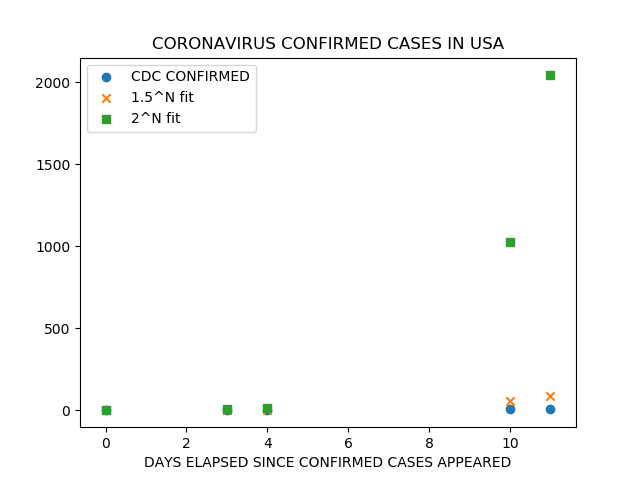
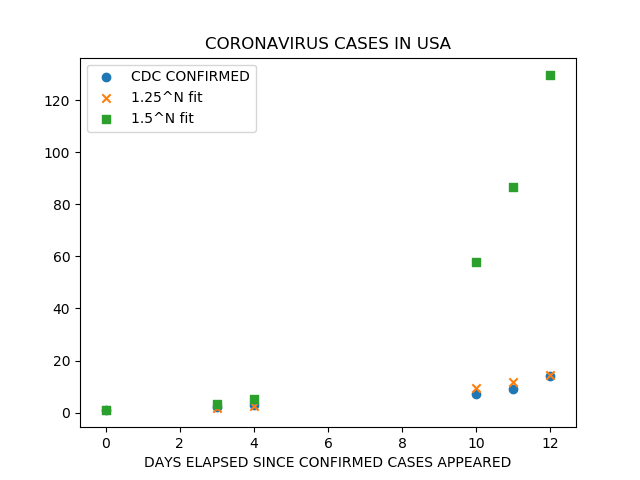
U

diff --git a/README.md b/README.md
@@ -2,7 +2,7 @@ last updated 2020-02-02
 
 [READ THIS](https://www.nytimes.com/interactive/2020/world/asia/china-coronavirus-contain.html)
 # ALERTS
-**CURRENT TOTAL US SICK COUNT = 9**
+**CURRENT TOTAL US SICK COUNT = 11 (likely 14)**
 
 **2 sick in Bay Area, 4 total in California**
 
